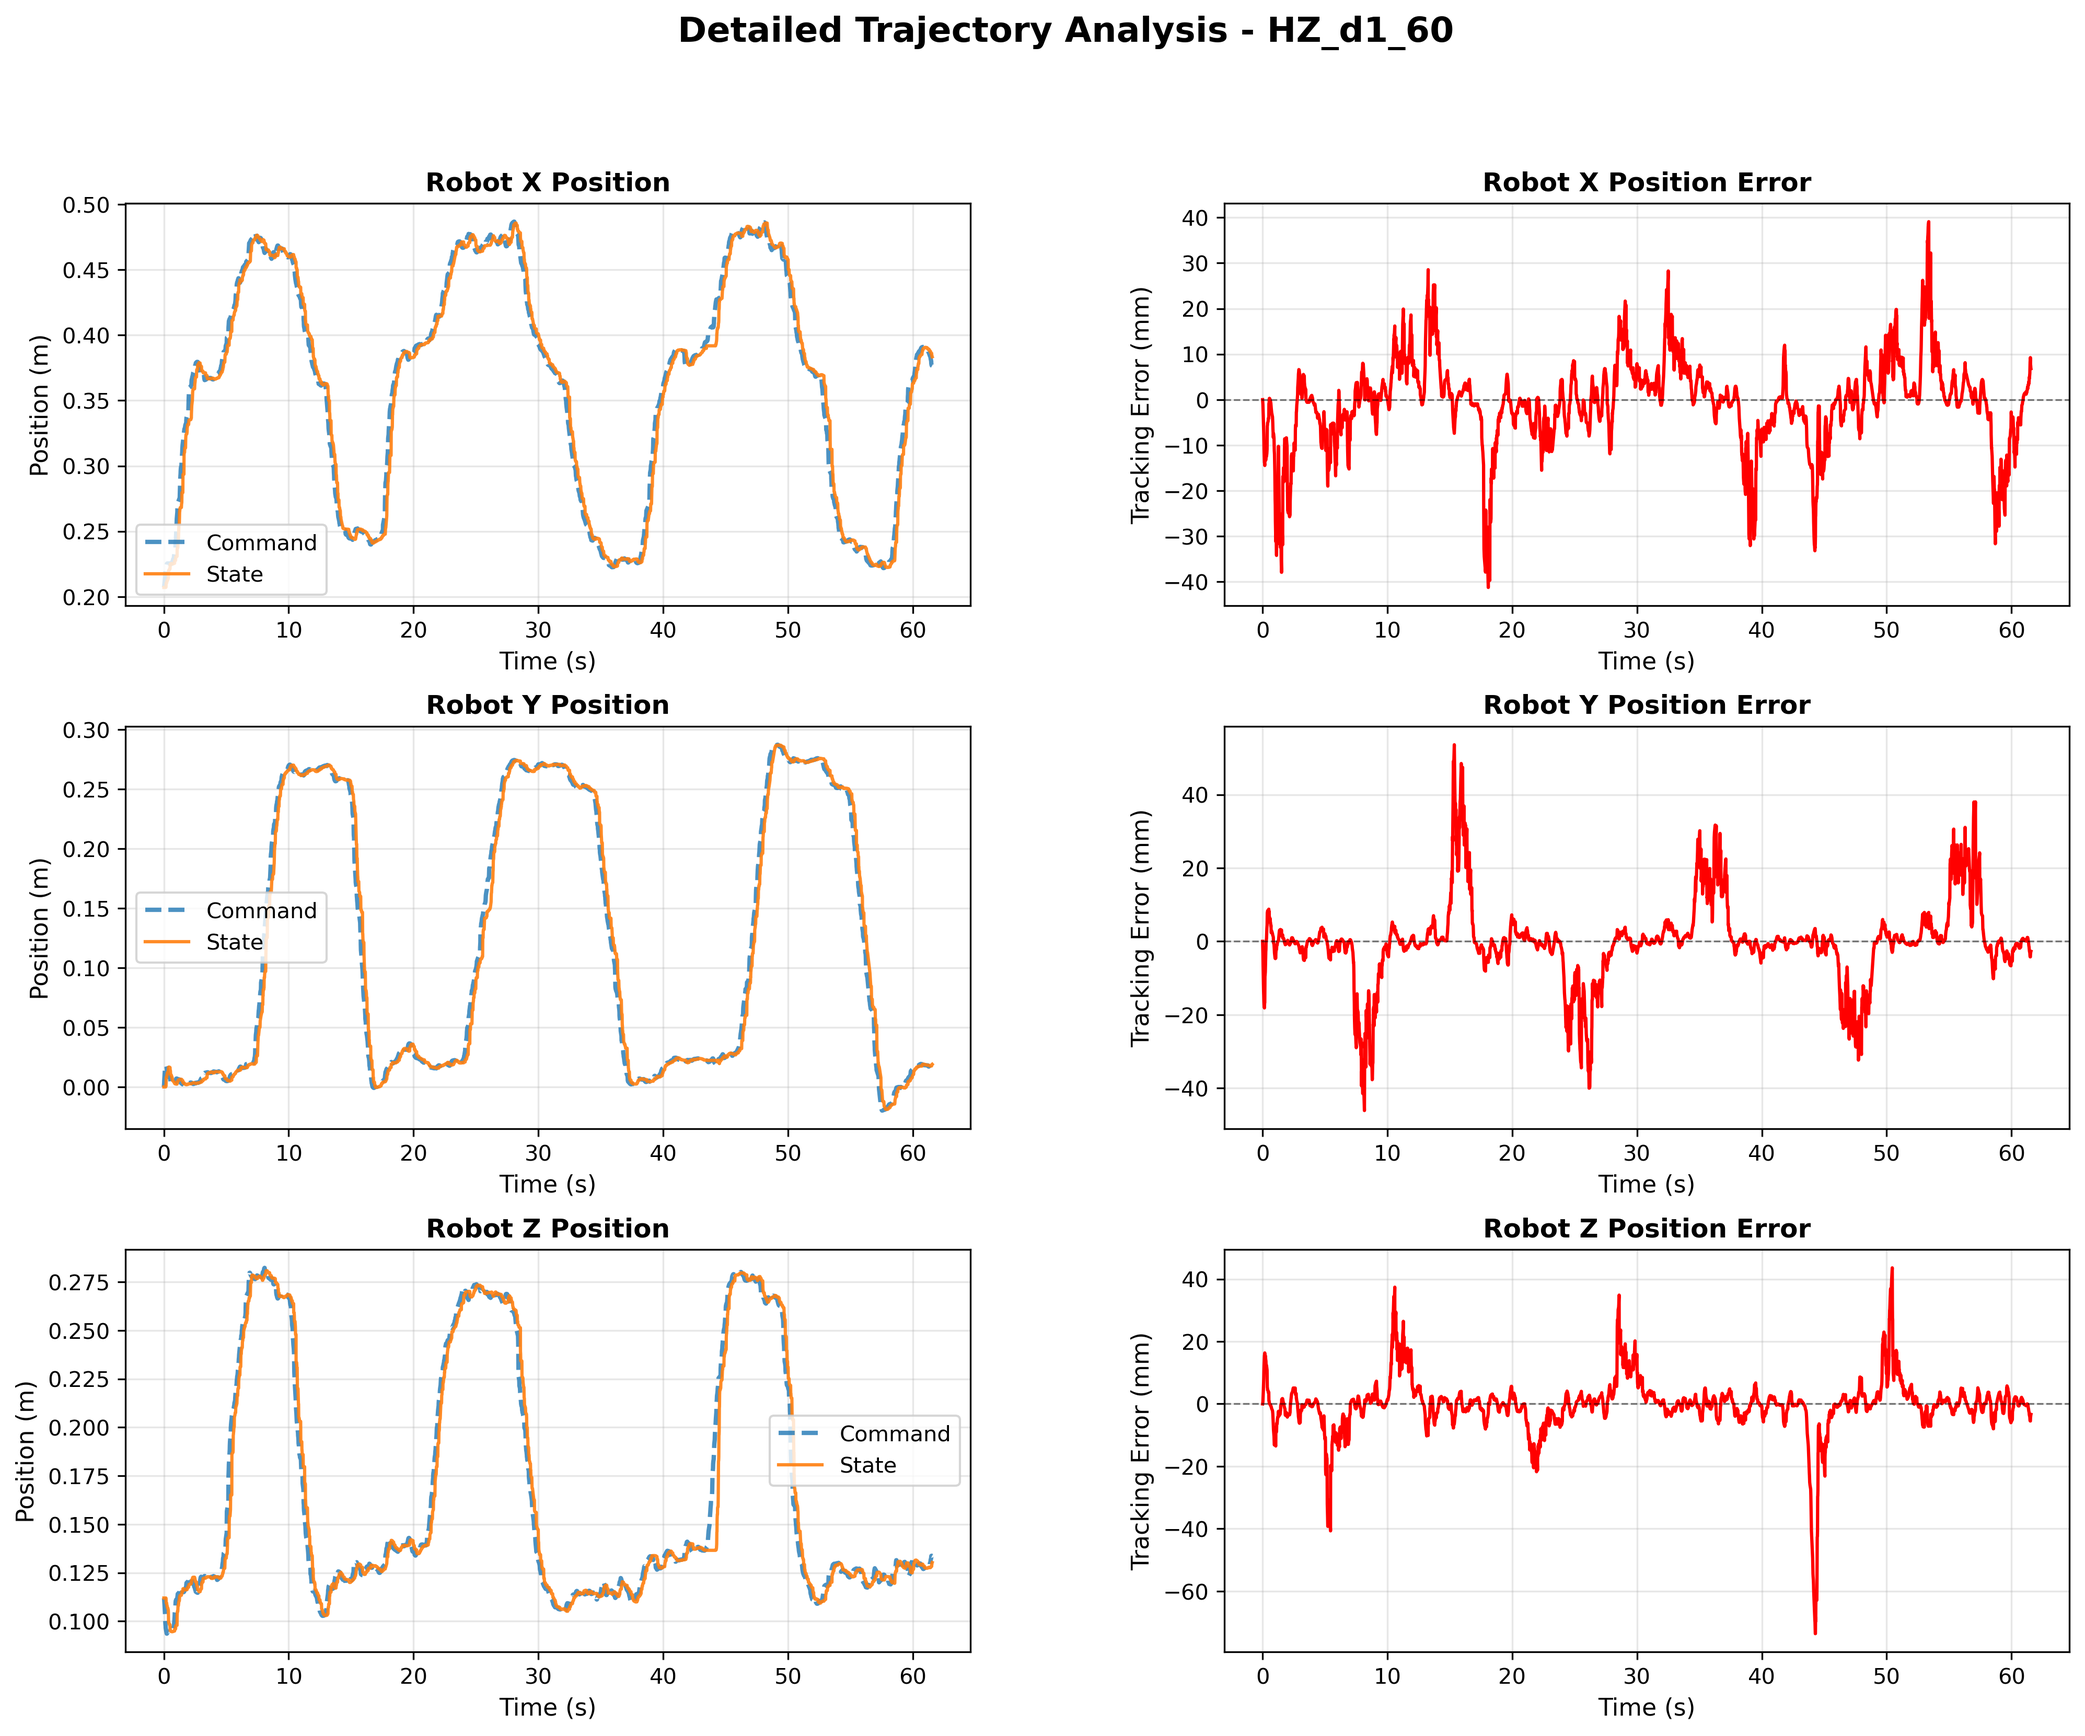
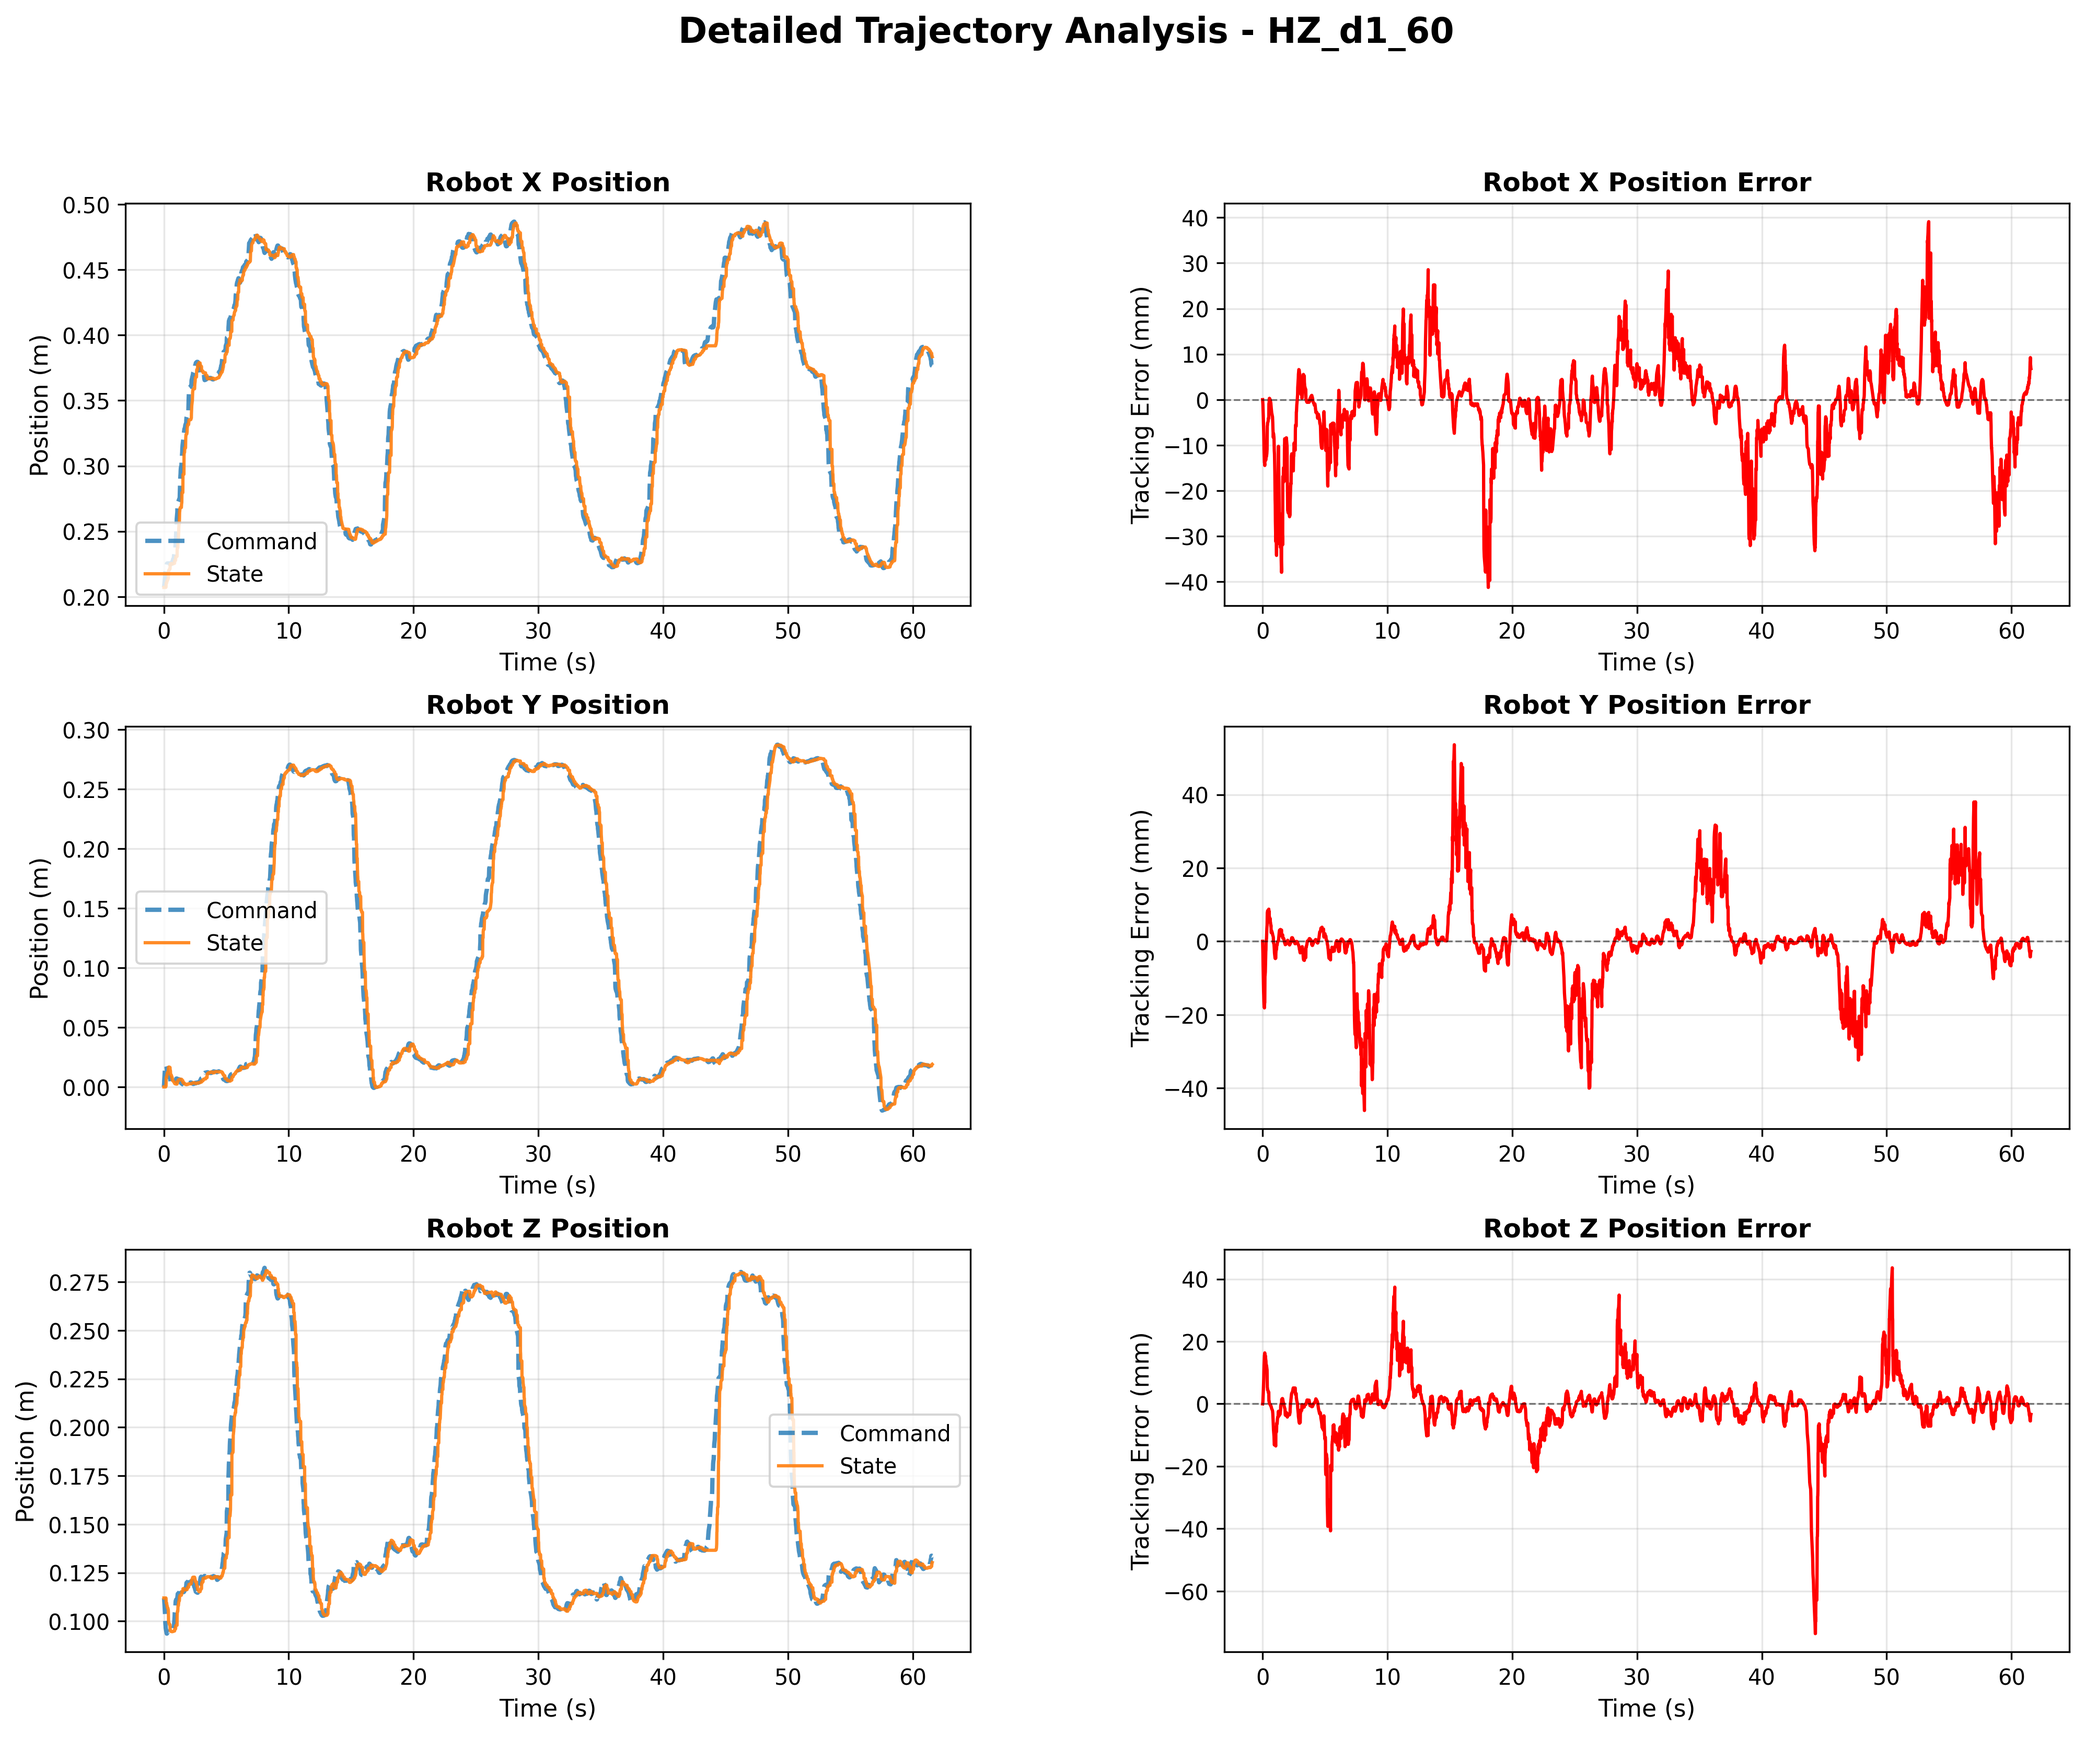
added time data analysis in plot hdf5

diff --git a/data/plot_hdf5.py b/data/plot_hdf5.py
@@ -28,7 +28,8 @@ def load_hdf5_data(h5_path, feature_name):
         
         timestamps = group["timestamps"][:]
         data = group["data"][:]
-        
+    
+    print(f"length of data of {feature_name} = {len(timestamps)}")
     return timestamps, data
 
 def parse_latency_log(log_path):
@@ -338,6 +339,109 @@ def plot_detailed_comparison(h5_path, demo_id=None, save_path=None):
         print(f"\n✓ Figure saved to: {save_file}")
     
     plt.close()
+    
+def evaluate_timing_quality(timestamps_ns, expected_freq, name="signal"):
+    """
+    Evaluate timing quality of a timestamp sequence.
+
+    Args:
+        timestamps_ns: 1D numpy array, nanoseconds
+        expected_freq: expected frequency in Hz
+        name: name for logging
+
+    Returns:
+        dict with timing metrics
+    """
+    timestamps_ns = np.asarray(timestamps_ns)
+
+    if len(timestamps_ns) < 2:
+        print(f"[{name}] Not enough samples for timing analysis")
+        return None
+
+    # convert to seconds
+    t = timestamps_ns / 1e9
+    dt = np.diff(t)
+
+    expected_dt = 1.0 / expected_freq
+
+    monotonic = np.all(dt > 0)
+    backward_count = np.sum(dt <= 0)
+
+    metrics = {
+        "num_samples": len(timestamps_ns),
+        "duration_s": t[-1] - t[0],
+        "mean_dt": np.mean(dt),
+        "std_dt": np.std(dt),
+        "max_jitter": np.max(np.abs(dt - expected_dt)),
+        "expected_dt": expected_dt,
+        "monotonic": monotonic,
+        "backward_count": backward_count,
+    }
+
+    print(f"\n=== Timing Evaluation: {name} ===")
+    print(f"Samples        : {metrics['num_samples']}")
+    print(f"Duration       : {metrics['duration_s']:.3f} s")
+    print(f"Expected Δt    : {expected_dt*1000:.3f} ms")
+    print(f"Mean Δt        : {metrics['mean_dt']*1000:.3f} ms")
+    print(f"Std(Δt)        : {metrics['std_dt']*1000:.3f} ms")
+    print(f"Max |Δt-Δt₀|   : {metrics['max_jitter']*1000:.3f} ms")
+    print(f"Monotonic      : {monotonic}")
+    if backward_count > 0:
+        print(f"⚠ Time went backward {backward_count} times")
+
+    return metrics
+
+def evaluate_cross_topic_alignment(
+    timestamps_state_ns,
+    timestamps_cmd_ns,
+    name="state-command alignment"
+):
+    """
+    Evaluate timestamp alignment between two topics with different frequencies.
+
+    Uses nearest-neighbor matching.
+
+    Args:
+        timestamps_state_ns: state timestamps (ns)
+        timestamps_cmd_ns: command timestamps (ns)
+
+    Returns:
+        dict with alignment metrics
+    """
+    t_state = np.asarray(timestamps_state_ns) / 1e9
+    t_cmd = np.asarray(timestamps_cmd_ns) / 1e9
+
+    if len(t_state) == 0 or len(t_cmd) == 0:
+        print(f"[{name}] Empty timestamps")
+        return None
+
+    deltas = []
+
+    cmd_idx = 0
+    for ts in t_state:
+        while cmd_idx + 1 < len(t_cmd) and abs(t_cmd[cmd_idx + 1] - ts) < abs(t_cmd[cmd_idx] - ts):
+            cmd_idx += 1
+        deltas.append(abs(ts - t_cmd[cmd_idx]))
+
+    deltas = np.asarray(deltas)
+
+    metrics = {
+        "num_pairs": len(deltas),
+        "mean_abs_dt": np.mean(deltas),
+        "std_abs_dt": np.std(deltas),
+        "max_abs_dt": np.max(deltas),
+        "p95_abs_dt": np.percentile(deltas, 95),
+    }
+
+    print(f"\n=== Cross-Topic Alignment: {name} ===")
+    print(f"Pairs          : {metrics['num_pairs']}")
+    print(f"Mean |Δt|      : {metrics['mean_abs_dt']*1000:.3f} ms")
+    print(f"Std  |Δt|      : {metrics['std_abs_dt']*1000:.3f} ms")
+    print(f"P95  |Δt|      : {metrics['p95_abs_dt']*1000:.3f} ms")
+    print(f"Max  |Δt|      : {metrics['max_abs_dt']*1000:.3f} ms")
+
+    return metrics
+
 
 def inspect_hdf5_structure(h5_path):
     """
@@ -358,10 +462,10 @@ def inspect_hdf5_structure(h5_path):
 
 if __name__ == "__main__":
     # Configuration
-    h5_path = "/home/x-yq/teleop_dev/data/distributed1/motion_acc_latency/HZ_d1_30_r3/HZ_d1_30_buffer.h5"
-    demo_id = "HZ_d1_30"
-    robot_latency_path = "/home/x-yq/teleop_dev/data/distributed1/motion_acc_latency/latency_30hz_r3/LATENCY_robot_control_cmd.log"
-    gripper_latency_path = "/home/x-yq/teleop_dev/data/distributed1/motion_acc_latency/latency_30hz_r3/LATENCY_gripper_control_cmd.log"
+    h5_path = "/home/x-yq/teleop_dev/data/distributed1/motion_acc_latency/HZ_d1_60/HZ_d1_60_buffer.h5"
+    demo_id = "HZ_d1_60"
+    robot_latency_path = "/home/x-yq/teleop_dev/data/distributed1/motion_acc_latency/latency_60hz/LATENCY_robot_control_cmd.log"
+    gripper_latency_path = "/home/x-yq/teleop_dev/data/distributed1/motion_acc_latency/latency_60hz/LATENCY_gripper_control_cmd.log"
     
     # Inspect structure
     inspect_hdf5_structure(h5_path)
@@ -380,3 +484,26 @@ if __name__ == "__main__":
     plot_detailed_comparison(h5_path, demo_id=demo_id)
     
     print("\n✓ All plots completed!")
+    
+    # ===== Timing quality =====
+    ts_cmd, _ = load_hdf5_data(h5_path, "robot_control_cmd/pose")
+    ts_state, _ = load_hdf5_data(h5_path, "robot_state/end_effector_pose")
+    
+    evaluate_timing_quality(
+	    ts_cmd,
+	    expected_freq=60,
+	    name="Robot Command"
+	)
+
+    evaluate_timing_quality(
+	    ts_state,
+	    expected_freq=90,
+	    name="Robot State"
+	)
+
+    # ===== Cross-topic alignment =====
+    evaluate_cross_topic_alignment(
+	    ts_state,
+	    ts_cmd,
+	    name="Robot State vs Command"
+	)
